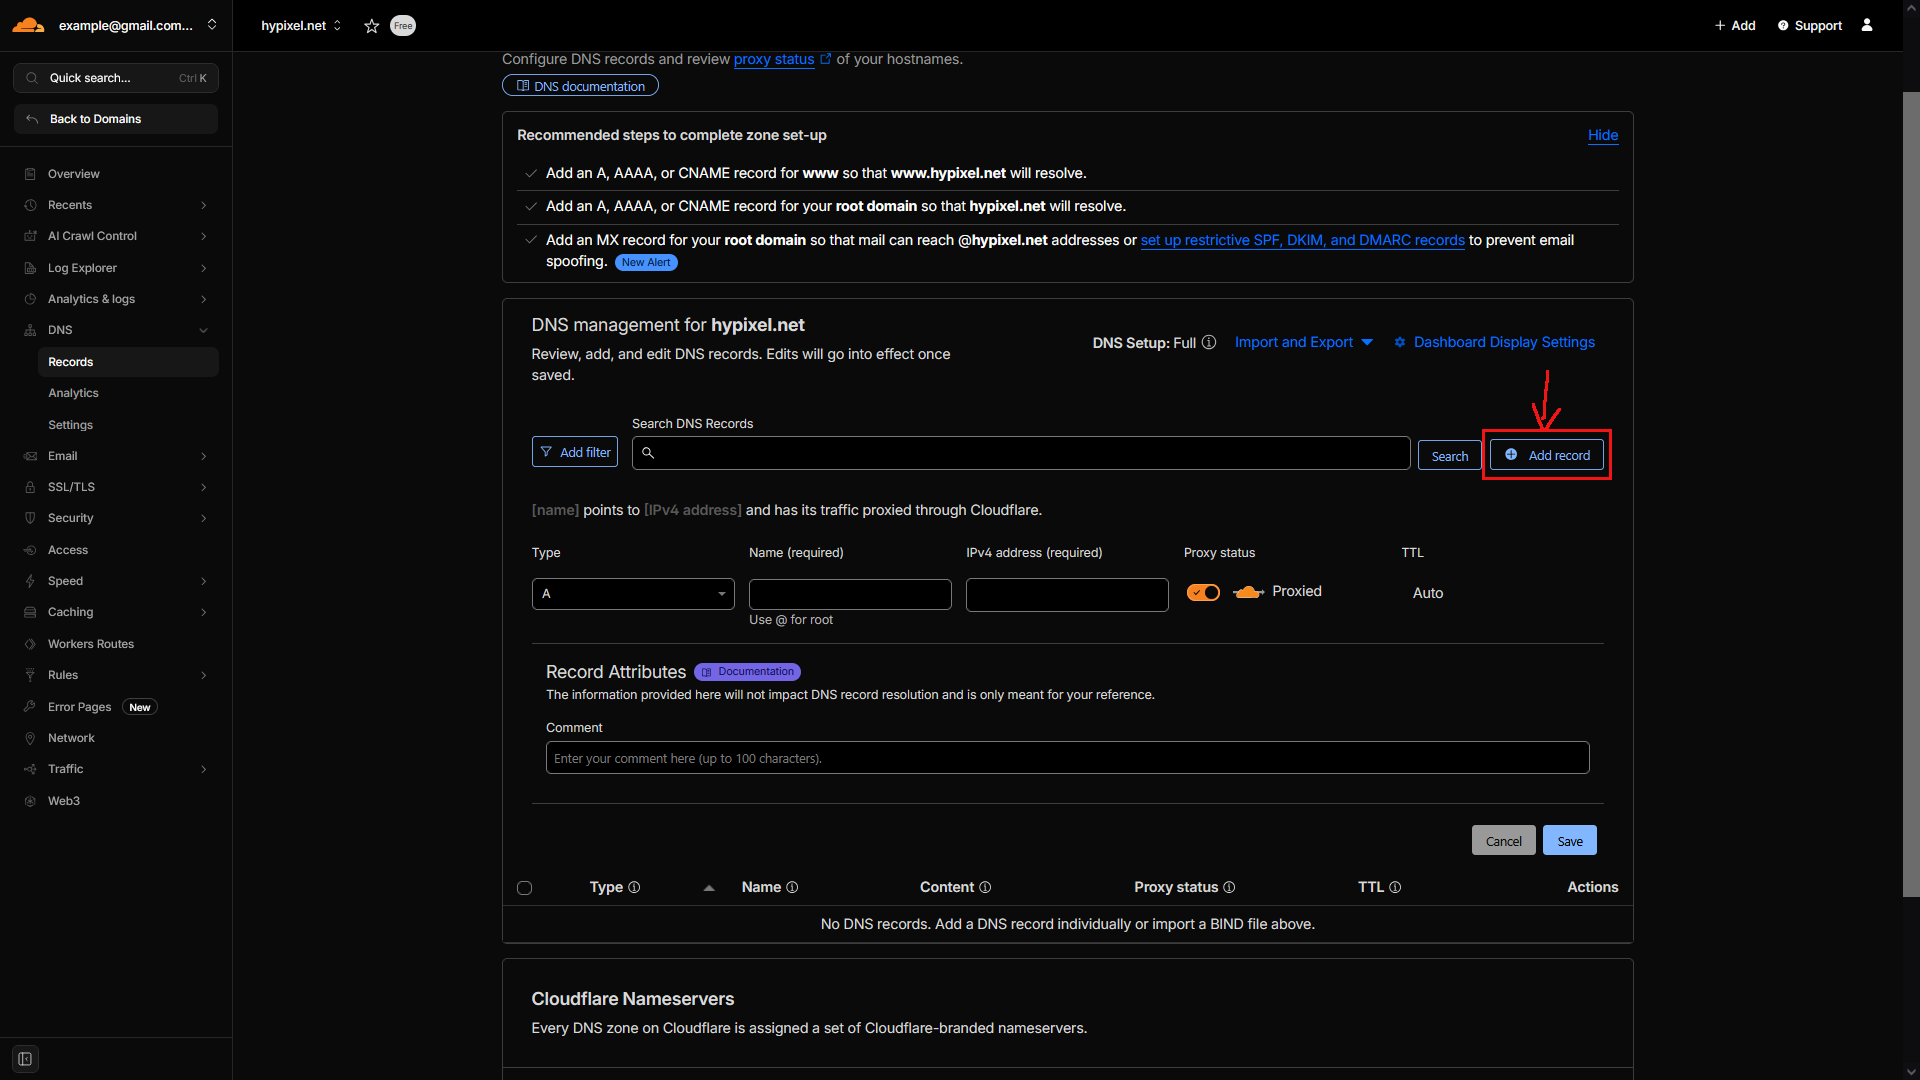
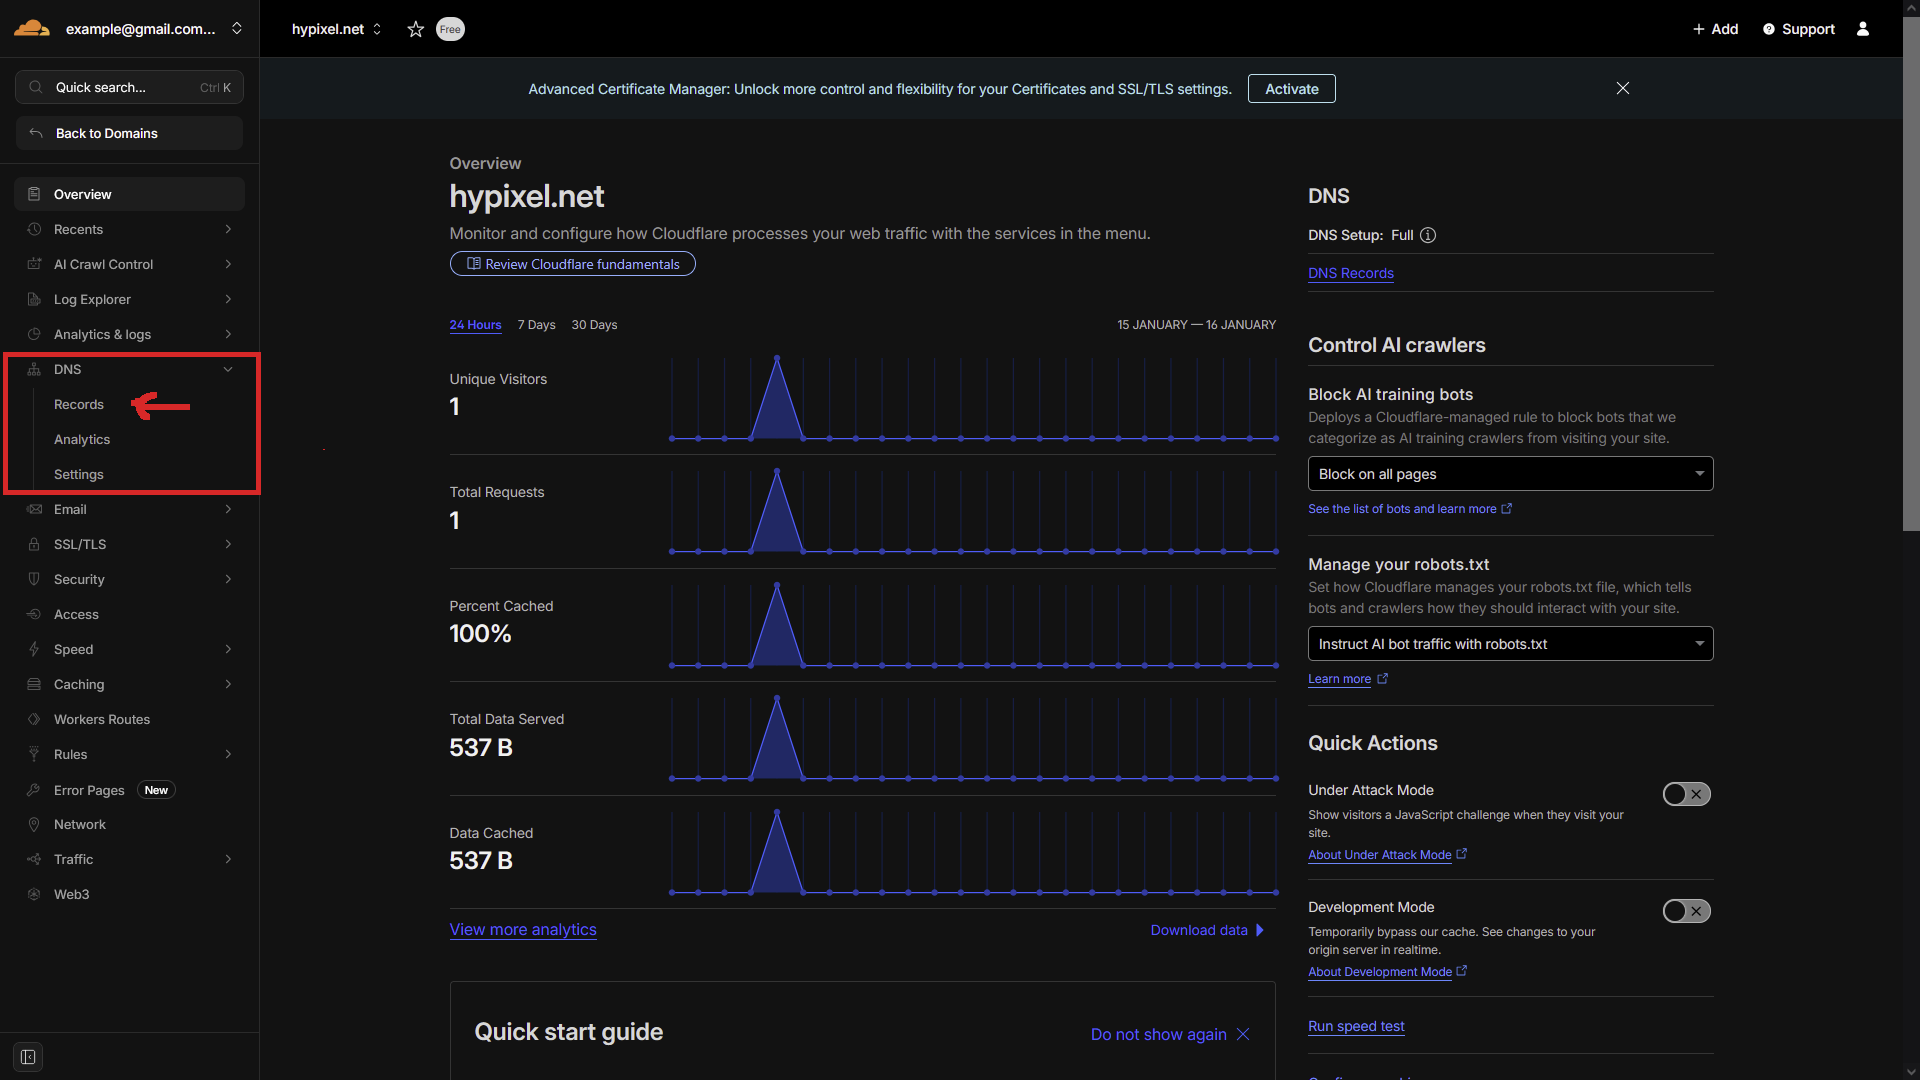
GITBOOK-147: No subject

diff --git a/przydatne-minecraft/domena-mc/rekord-a.md b/przydatne-minecraft/domena-mc/rekord-a.md
@@ -1,0 +1,49 @@
+---
+description: >-
+  Poniżej znajdziesz instrukcję, jak skonfigurować domenę poprzez rekord A, aby
+  gracze mogli połączy się przez nią do twojego serwera. (poradnik dotyczy
+  cloudflare)
+---
+
+# Gdy posiadasz VPS/DEDYKA
+
+{% stepper %}
+{% step %}
+### Strefa DNS
+
+Przejdź do zakładki **Records** w kategorii **DNS**.<br>
+
+<figure><img src="../../.gitbook/assets/obraz (1).png" alt=""><figcaption></figcaption></figure>
+{% endstep %}
+
+{% step %}
+### Tworzenie rekordu
+
+Stwórz nowy rekord typu A
+
+<figure><img src="../../.gitbook/assets/obraz (1) (1).png" alt=""><figcaption></figcaption></figure>
+{% endstep %}
+
+{% step %}
+### Ustawianie rekordu typu A
+
+Po utworzeniu rekordu typu **A** należy poprawnie skonfigurować jego parametry.\
+\
+**Name**\
+Jako nazwę rekordu zaleca się ustawić znak: `@` Lub wpisać pełną nazwę swojej domeny (np.`hypixel.net`)\
+**IPv4 Address**\
+W tym polu wpisz **ip numeryczne** twojego serwera. Ip znajdziesz w panelu hostingu, zazwyczaj w zakładce z konsolą serwera np. `2137.420.69.67`
+
+<figure><img src="../../.gitbook/assets/obraz.png" alt=""><figcaption></figcaption></figure>
+{% endstep %}
+
+{% step %}
+### Połącz się z twoim serwerem
+
+Jeżeli wykonałeś wszystko poprawnie powinieneś móc połączyć się już z twoim serwerem.
+
+{% hint style="warning" %}
+Czasami podpięcie domeny może zająć dłuższy okres czasu (czasem nawet 48 godzin w najgorszych przypadkach). Jeżeli odrazu nie będziesz mógł się połączyć z serwerem nie panikuj, odczekaj chwile.
+{% endhint %}
+{% endstep %}
+{% endstepper %}

diff --git a/przydatne-minecraft/domena-old.md b/przydatne-minecraft/domena-old.md
@@ -13,7 +13,7 @@ icon: star-exclamation
 
 Przejdź do zakładki **Records** w kategorii **DNS**.
 
-<figure><img src="../.gitbook/assets/obraz.png" alt=""><figcaption></figcaption></figure>
+<figure><img src="../.gitbook/assets/obraz (1).png" alt=""><figcaption></figcaption></figure>
 {% endstep %}
 
 {% step %}
@@ -21,7 +21,7 @@ Przejdź do zakładki **Records** w kategorii **DNS**.
 
 Stwórz nowy rekord typu A
 
-<figure><img src="../.gitbook/assets/obraz (1).png" alt=""><figcaption></figcaption></figure>
+<figure><img src="../.gitbook/assets/obraz (1) (1).png" alt=""><figcaption></figcaption></figure>
 {% endstep %}
 
 {% step %}

diff --git a/SUMMARY.md b/SUMMARY.md
@@ -22,4 +22,6 @@
 * [Konfiguracje pluginów](przydatne-minecraft/konfiguracje-pluginow.md)
 * [Konfiguracja Serwera Proxy](przydatne-minecraft/konfiguracja-serwera-proxy.md)
 * [Gamerule minecraft (1.21.11)](przydatne-minecraft/gamerule.md)
-* [Podłączanie domeny do serwera Minecraft](przydatne-minecraft/domena-mc.md)
+* [Podłączanie domeny do serwera Minecraft](przydatne-minecraft/domena-old.md)
+* [Podłączenie domeny do serwera minecraft](przydatne-minecraft/domena-mc/README.md)
+  * [Gdy posiadasz VPS/DEDYKA](przydatne-minecraft/domena-mc/rekord-a.md)

diff --git a/przydatne-minecraft/domena-mc/README.md b/przydatne-minecraft/domena-mc/README.md
@@ -1,0 +1,9 @@
+---
+description: >-
+  Poniżej znajdziesz instrukcję, jak skonfigurować domenę, aby gracze mogli
+  połączy się przez nią do twojego serwera. (poradnik dotyczy cloudflare)
+icon: star-exclamation
+---
+
+# Podłączenie domeny do serwera minecraft
+
